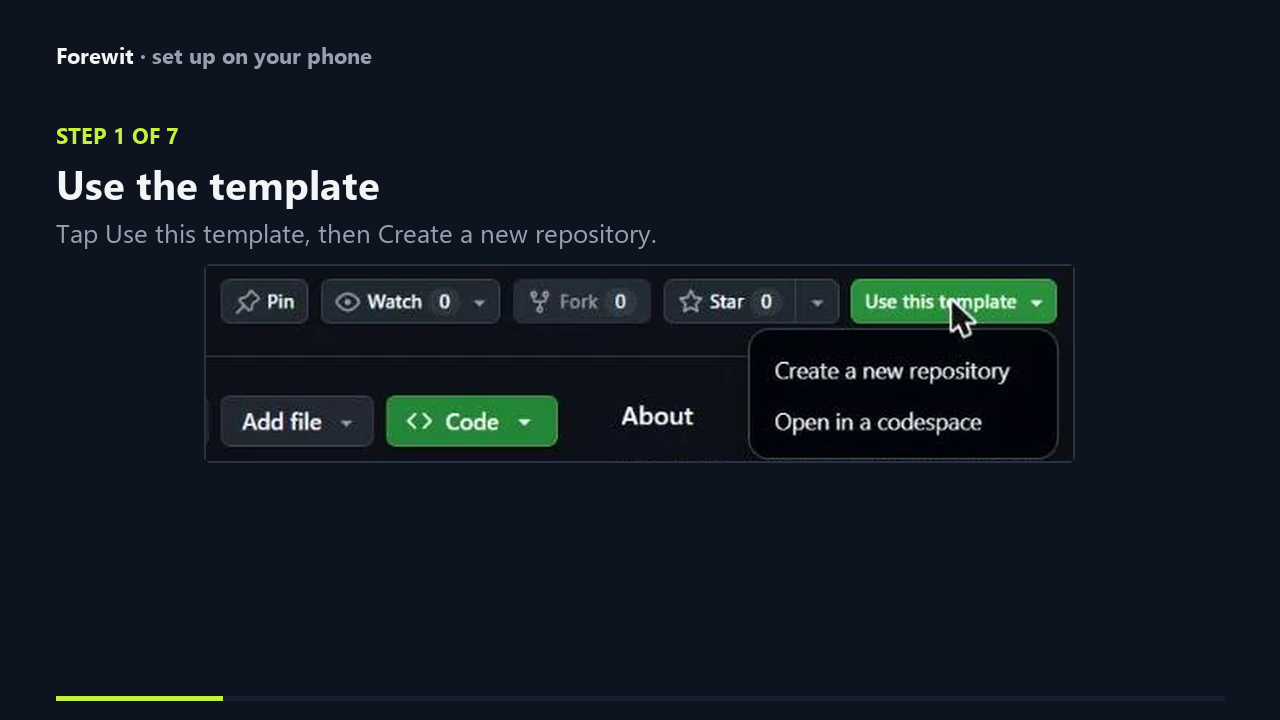
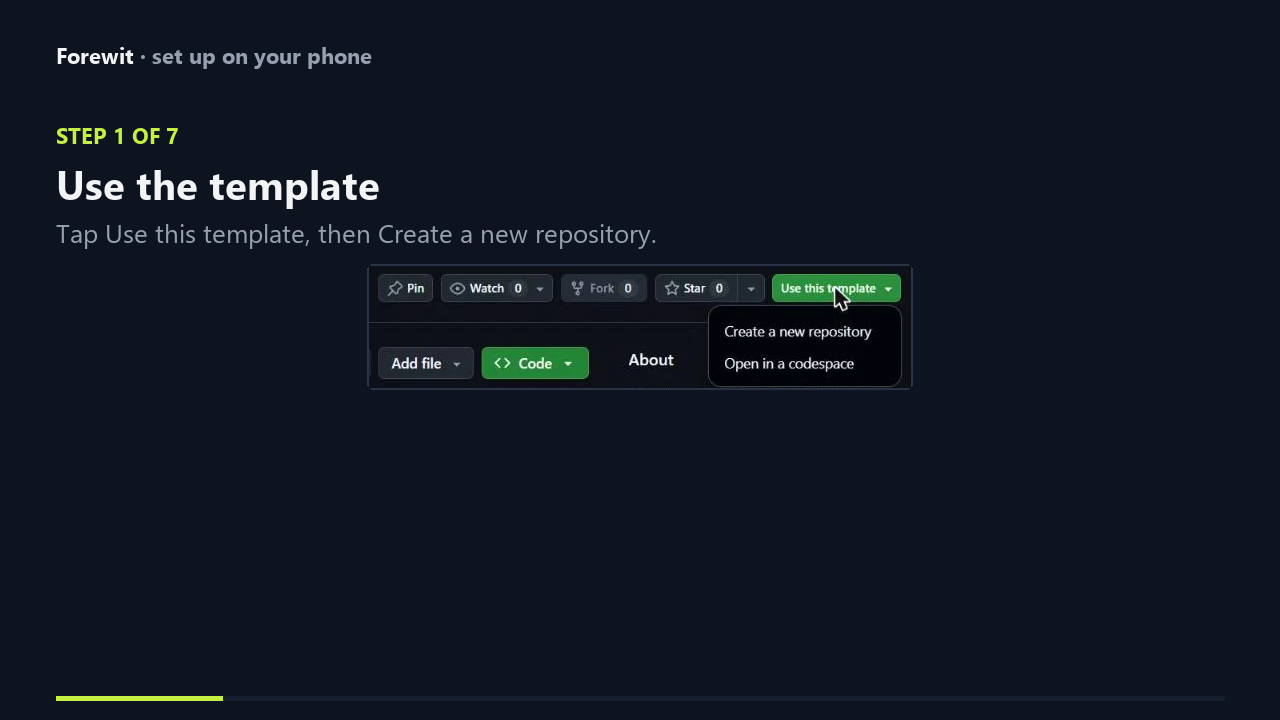
Second animation: Forecast in Claude from the home page, built from real captures of forewit.xyz (GIF for X plus a still); sharper setup GIF

Changed region(s): [[0.1562, 0.3667, 0.8438, 0.6417]]

diff --git a/scripts/media/claude_button_animation.py b/scripts/media/claude_button_animation.py
@@ -1,0 +1,64 @@
+# Builds the "Forecast in Claude" animation from real 1280x720 captures of forewit.xyz (dark theme):
+# 1_home, 2_plugin, 3_copied, 4_connector, 5_cli, 6_open (PNG, captured with playwright-cli).
+# Output: docs/posts/img/forecast_in_claude.gif (X posts) and a still, forecast_in_claude_poster.png.
+# Run: .venv/Scripts/python scripts/media/claude_button_animation.py <capture folder>
+import sys
+from pathlib import Path
+from PIL import Image, ImageDraw, ImageFont
+
+ROOT = Path(__file__).resolve().parents[2]
+CAP = Path(sys.argv[1])
+W, H, BAR = 1280, 720, 96
+BG, INK, MUTED, LIME, CLAUDE = (13, 20, 32), (242, 244, 245), (150, 160, 175), (196, 240, 66), (217, 119, 87)
+FONTS = Path("C:/Windows/Fonts")
+
+
+def font(bold, size):
+    for name in (["segoeuib.ttf", "arialbd.ttf"] if bold else ["segoeui.ttf", "arial.ttf"]):
+        if (FONTS / name).exists():
+            return ImageFont.truetype(str(FONTS / name), size)
+    return ImageFont.load_default()
+
+
+F_STEP, F_HEAD, F_BIG, F_BODY = font(True, 20), font(True, 30), font(True, 60), font(False, 26)
+STEPS = [
+    ("1_home", "Find Forecast in Claude on Today's picks"),
+    ("2_plugin", "Plugin: two lines for Claude Code"),
+    ("3_copied", "Copy them, paste them in Claude Code"),
+    ("4_connector", "Connector: one address for any Claude chat"),
+    ("5_cli", "CLI: one command on any computer"),
+    ("6_open", "No computer? Open Claude Code on your phone"),
+]
+
+
+def step(i, name, caption):
+    im = Image.new("RGB", (W, H + BAR), BG)
+    d = ImageDraw.Draw(im)
+    d.text((40, 20), f"STEP {i} OF {len(STEPS)}", font=F_STEP, fill=CLAUDE)
+    d.text((40, 46), caption, font=F_HEAD, fill=INK)
+    d.rectangle((0, BAR - 4, int(W * i / len(STEPS)), BAR - 1), fill=CLAUDE)
+    im.paste(Image.open(CAP / f"{name}.png").convert("RGB").resize((W, H)), (0, BAR))
+    return im
+
+
+def card(head, sub, foot):
+    im = Image.new("RGB", (W, H + BAR), BG)
+    d = ImageDraw.Draw(im)
+    d.rectangle((60, 330, 68, 420), fill=CLAUDE)
+    d.text((92, 322), head, font=F_BIG, fill=INK)
+    d.text((92, 410), sub, font=F_BODY, fill=MUTED)
+    d.text((60, H + BAR - 80), foot, font=F_STEP, fill=LIME)
+    return im
+
+
+cards = [(card("Forecast in Claude", "Three ways in, from one button on forewit.xyz.", "forewit.xyz"), 2200)]
+cards += [(step(i + 1, *s), 2600) for i, s in enumerate(STEPS)]
+cards.append((card("Your edge, on the record.", "Say \u201cForecast with Forewit\u201d. Approve in the Binance App.", "forewit.xyz"), 2800))
+
+gif = ROOT / "docs" / "posts" / "img" / "forecast_in_claude.gif"
+q = [im.quantize(colors=256, method=Image.Quantize.MAXCOVERAGE, dither=Image.Dither.NONE) for im, _ in cards]
+q[0].save(gif, save_all=True, append_images=q[1:], duration=[ms for _, ms in cards], loop=0, optimize=True)
+cards[2][0].save(ROOT / "docs" / "posts" / "img" / "forecast_in_claude_poster.png")
+for p in (gif,):
+    print(p.relative_to(ROOT), round(p.stat().st_size / 1024), "KB")
+print("seconds", sum(ms for _, ms in cards) / 1000)
